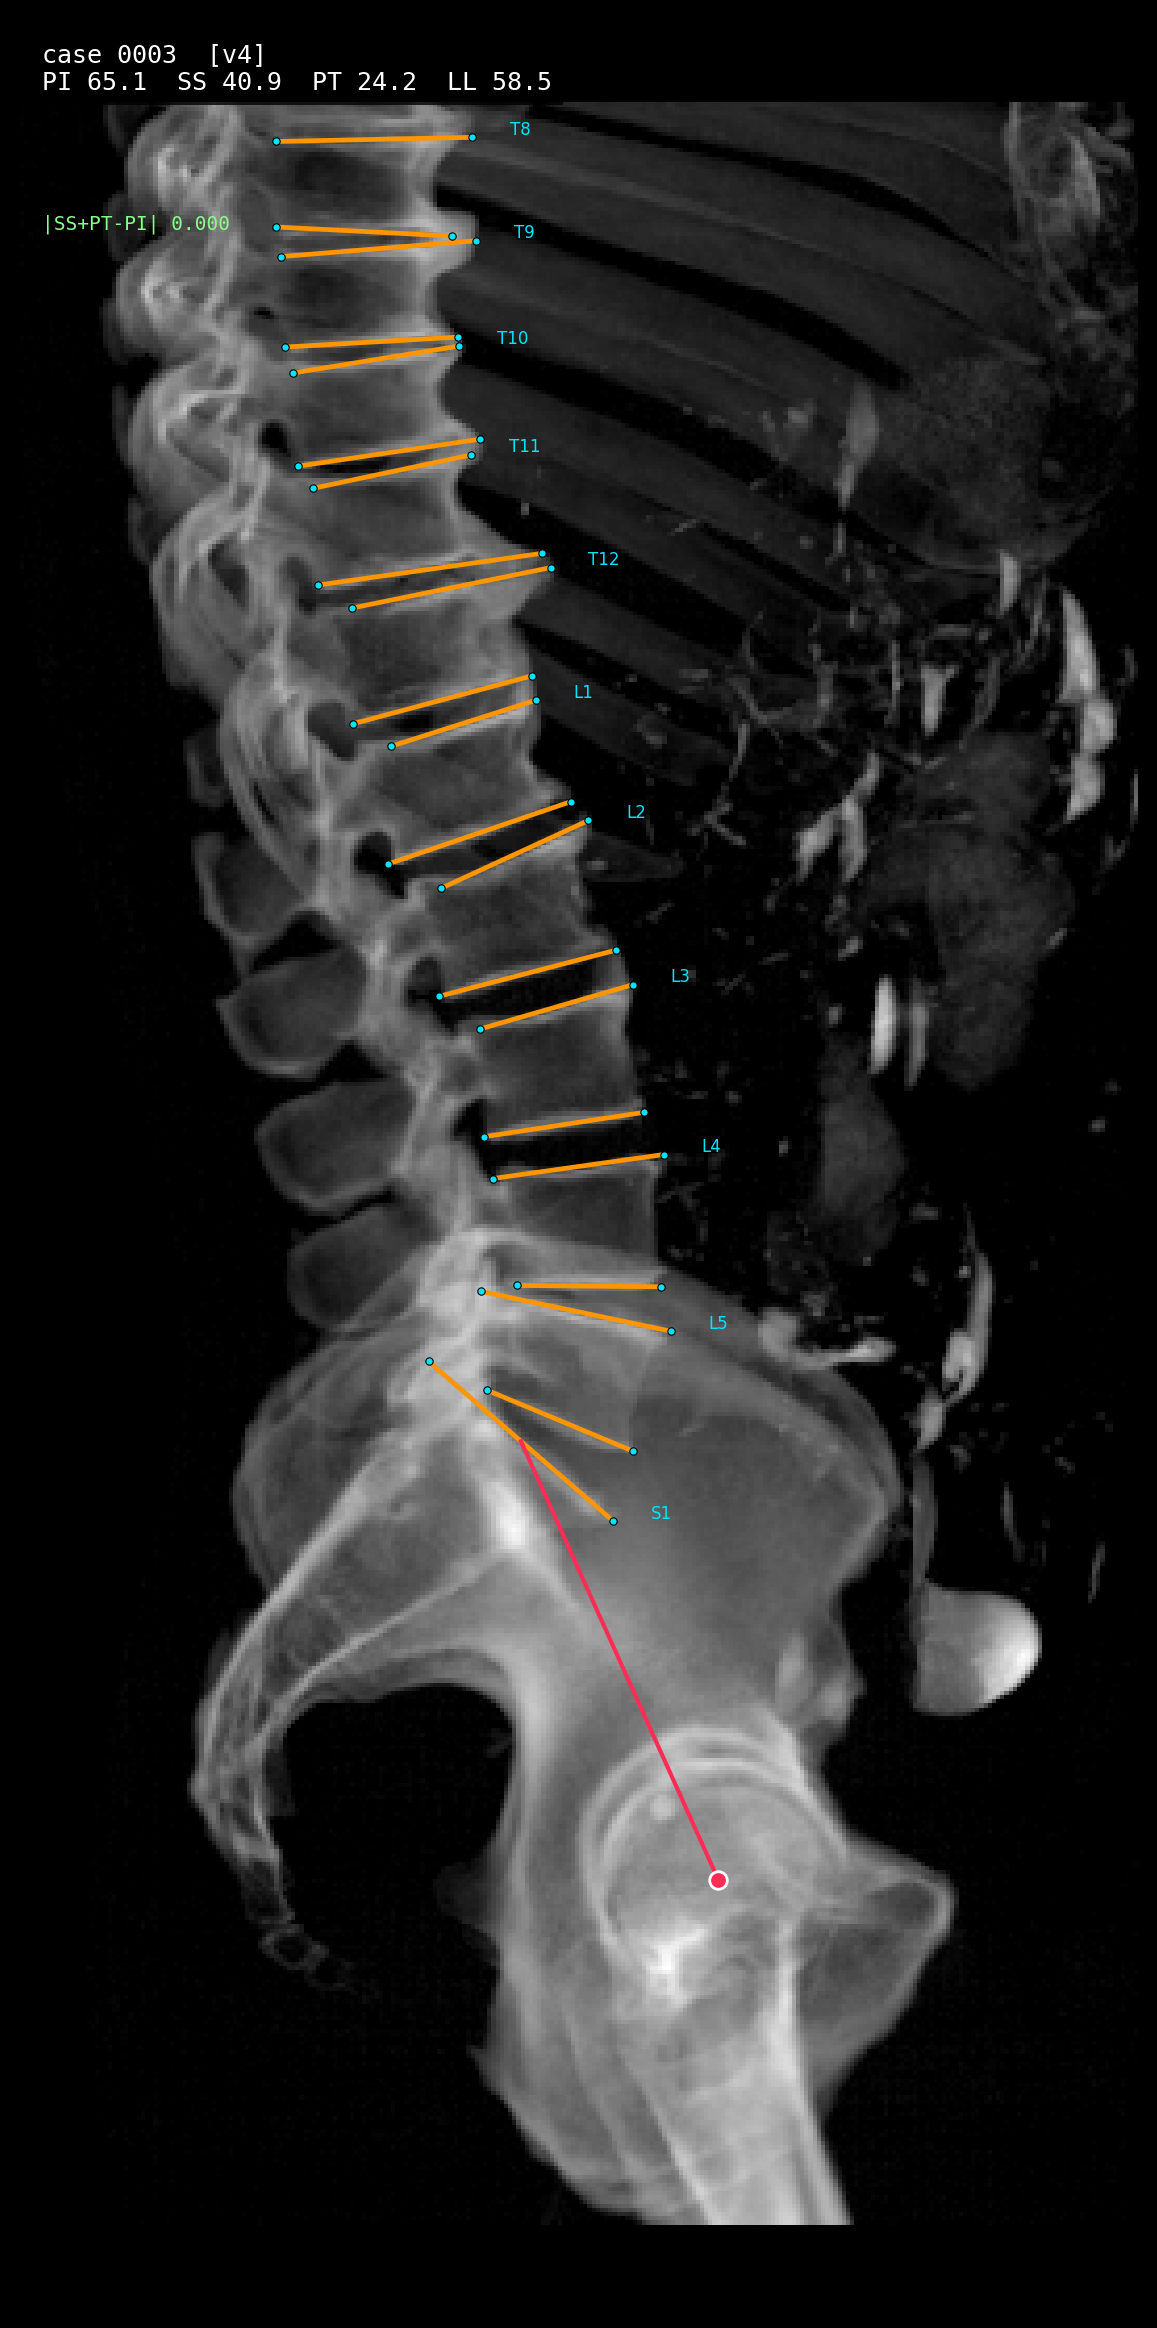
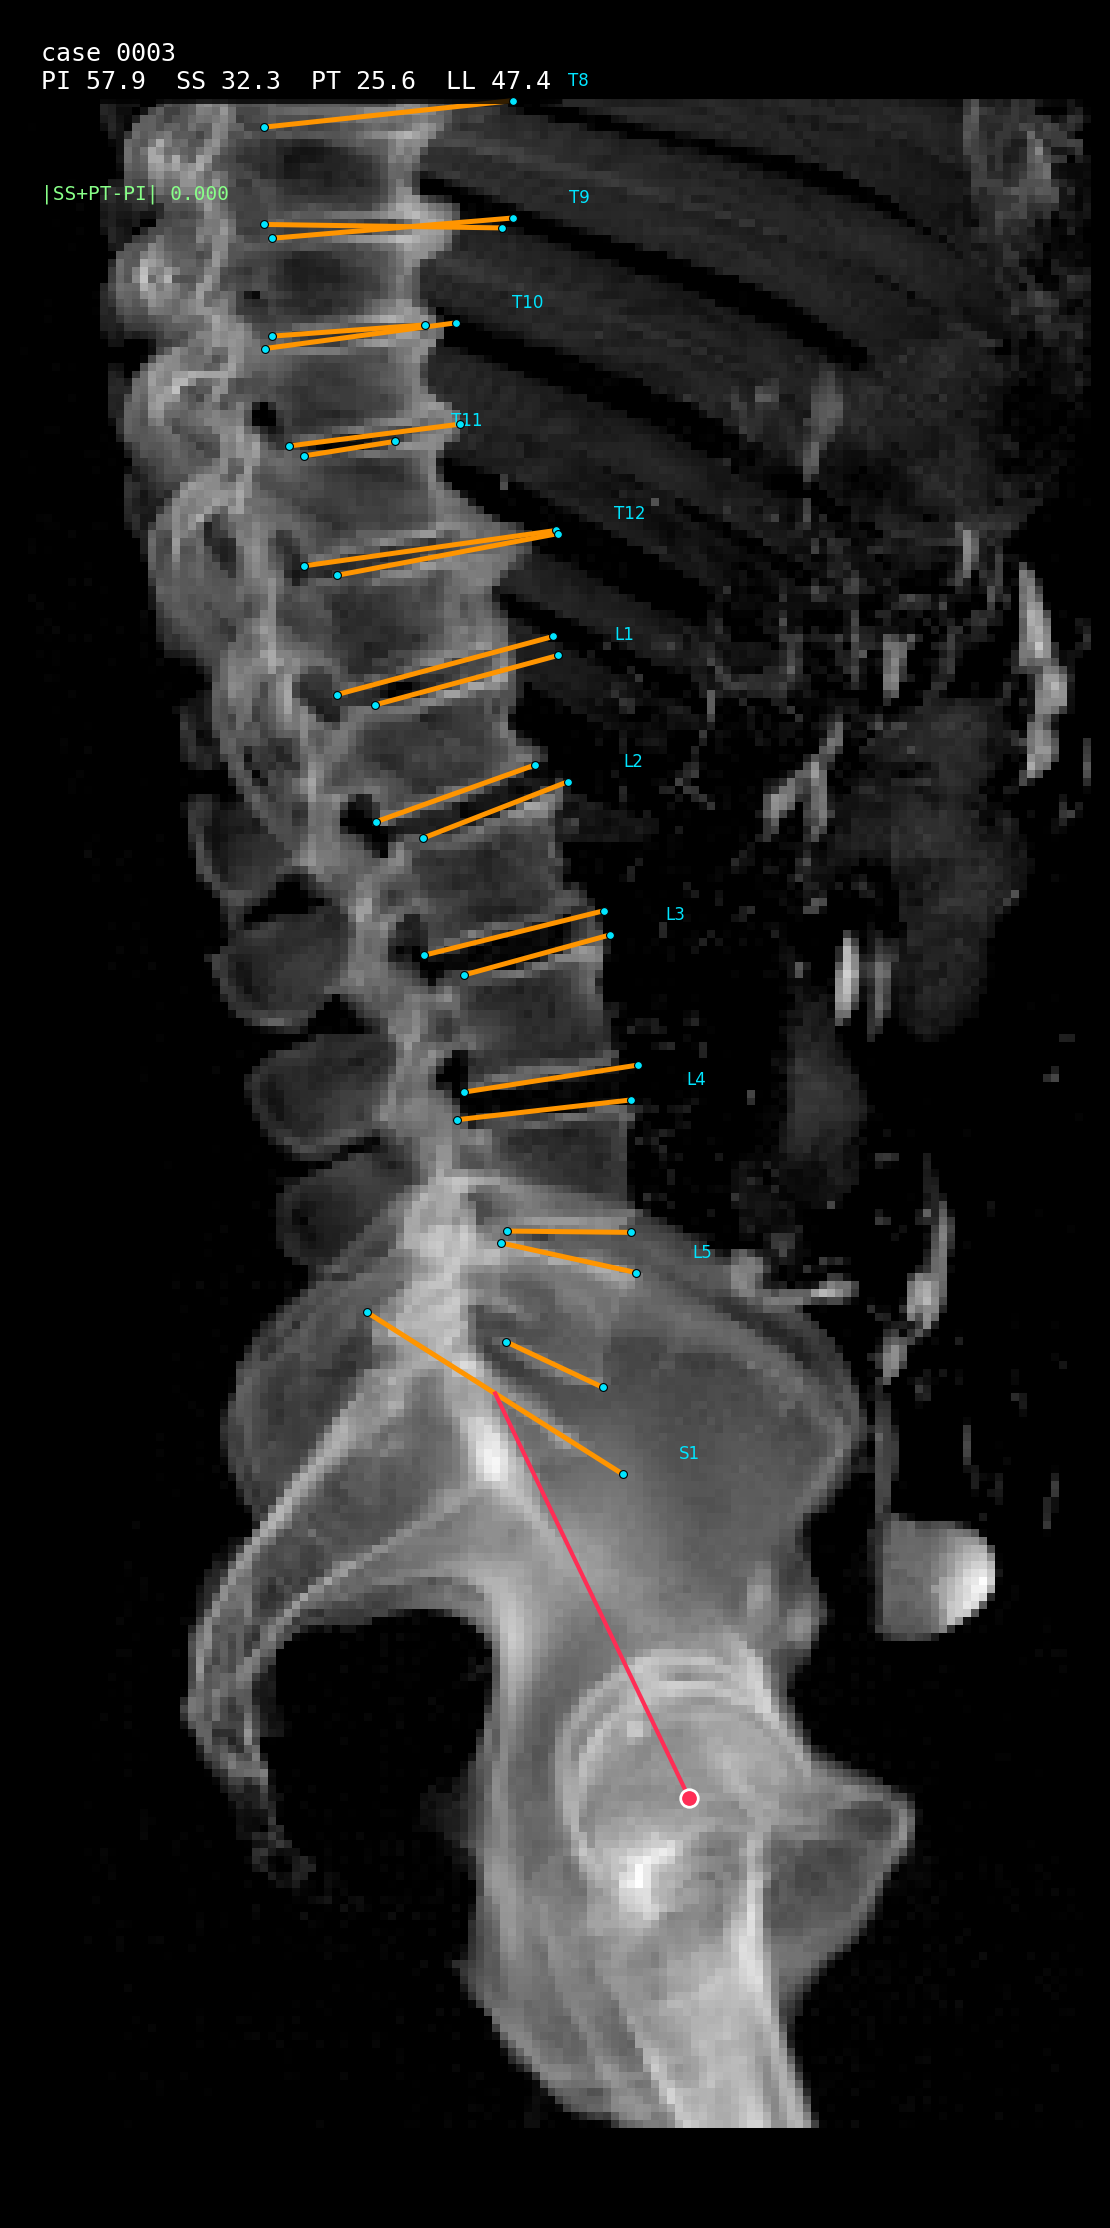
corners: model the cortical wall's WAISTING, and record where this still fails
A vertebral wall is waisted -- narrowest at mid-height, widest at the rims -- so a
straight line fitted over the mid-body and extrapolated to the plate under-reaches by
exactly that concavity. Scored against BUU readers it showed as span/height aspect of
1.1-1.2 where readers sit at 1.3-1.4: real body was being cut, not osteophyte. The wall
now takes the same degree-2 robust profile as the endplate, which carries the waisting
while still being unable to represent a spur.

  aspect L1  1.2 -> 1.4   (BUU 1.1-1.6)
  aspect L2  1.1 -> 1.3   (BUU 1.1-1.6)
  L3-L5 unchanged at 1.1-1.2 -- still short, unexplained.

STATUS, honestly: this is NOT yet reliable, and it fails in a case-dependent way.

  0001 (clean anatomy):   0/19 spans implausible; 22.8-39.9 mm throughout, textbook.
  0003 (osteophytic):     multiple gross failures --
        T8  sup 62.6      thoracic bodies are 25-35 mm
        T11 sup 23.0 vs inf 63.8    a 3x mismatch within ONE vertebra
        S1  sup 75.9      a sacral endplate is 40-50 mm

The irony is not lost: the shape model was added precisely to survive pathology, and the
case it fails on is the pathological one. So the profile model is doing its job on the
PLATE while something upstream -- most likely the body isolation on a vertebra with
bridging osteophytes, where the canal cut and the ala/spur geometry differ -- is handing
it the wrong body. That is the next thing to chase, and it should be chased on 0003.
[…]

diff --git a/xrsp/oblique.py b/xrsp/oblique.py
@@ -585,15 +585,37 @@ def extend_in_body(p_a, p_b, body_fp, *, wall_frac=(0.20, 0.80), thresh_px: floa
 
     out_t = [0.0, n]
     for i, rows_t in enumerate((rows_lo, rows_hi)):
-        fit = _ransac_line_1d(rows_s, rows_t, thresh_px=thresh_px)
-        if fit is None:
-            continue
-        m, c = fit
-        cand = c                          # the wall extrapolated to the plate (s = 0)
+        cand = None
+        # A vertebral wall is WAISTED -- narrowest at mid-height, widest at the rims --
+        # so a straight line fitted over the mid-body and extrapolated to the plate
+        # under-reaches by exactly that concavity. Measured against BUU readers, doing it
+        # straight put the span/height aspect at 1.1-1.2 where readers sit at 1.3-1.4,
+        # i.e. ~10-15% short: real body was being cut, not osteophyte. A degree-2 profile
+        # carries the waisting; as with the endplate it still cannot represent a spur, so
+        # Tukey weighting keeps the osteophyte excluded.
+        prof = _fit_profile_2d(rows_s, rows_t, degree=2)
+        if prof is not None:
+            cand = float(np.polyval(prof, 0.0))
+        if cand is None:
+            fit = _ransac_line_1d(rows_s, rows_t, thresh_px=thresh_px)
+            if fit is None:
+                continue
+            cand = fit[1]
         base = out_t[i]
         if abs(cand - base) <= max_extend_px:   # refuse an absurd extrapolation
             out_t[i] = cand
     return (a + float(out_t[0]) * d), (a + float(out_t[1]) * d)
+
+
+def _fit_profile_2d(s_arr, t_arr, *, degree=2):
+    """Robust polynomial t(s) via ostk's Tukey IRLS; returns coeffs or None."""
+    try:
+        from ostk.vertebral_body import fit_profile_robust
+    except Exception:                                     # noqa: BLE001
+        return None
+    out = fit_profile_robust(np.asarray(s_arr, float), np.asarray(t_arr, float),
+                             degree=degree, min_points=5)
+    return None if out is None else out[0]
 
 
 def vertebra_corners_2d(label, affine, plan, level_id: int, *, level_name: str = None,
